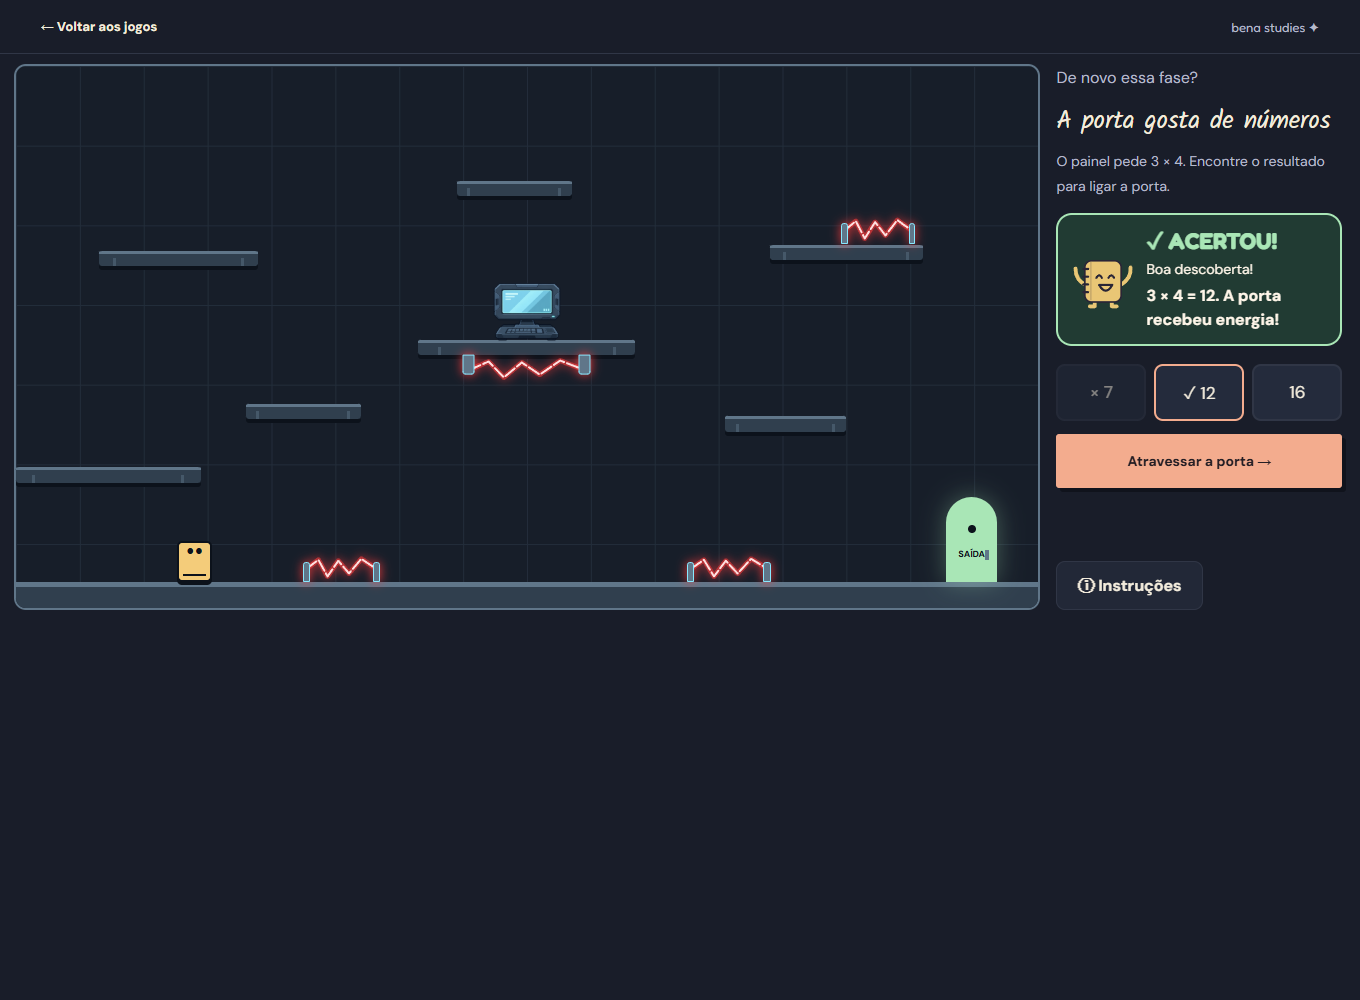
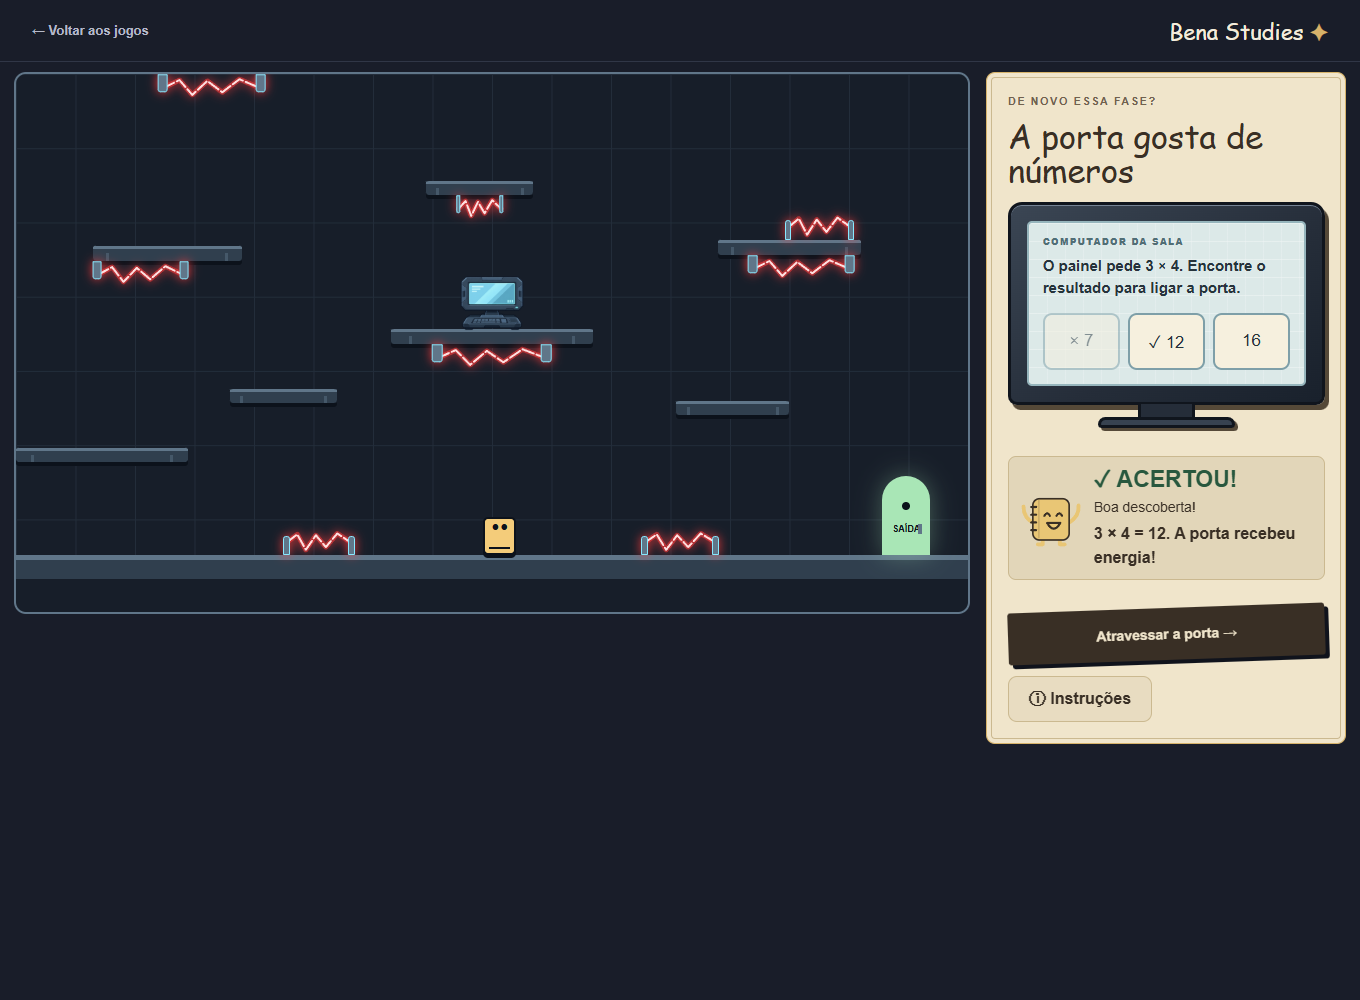
feat: show tabuada challenges on computer monitor

diff --git a/conteudo/3-serie/matematica/tabuada/002/jogo.js b/conteudo/3-serie/matematica/tabuada/002/jogo.js
@@ -53,9 +53,9 @@
       function showRoom() {
         respawnDelay = 0; x = 75; y = 373; vy = 0; grounded = true; target = null; held.clear(); tried = false; solved = false; opened = false; exiting = false;
         const level = levels[phase];
-        container.innerHTML = `<div class="room-layout"><div><div class="room-world" role="group" aria-label="Sala explorável. Use as setas esquerda e direita para andar e a seta para cima para pular. Clique no painel ou chegue à sua frente para abrir seu conteúdo."><div class="room-scene"><div class="room-grid"></div>${roomGeometry()}<button class="room-console" aria-label="Usar o computador"><img class="room-computer" src="../../../../../assets/images/TLA/Desktop.png" alt=""></button><button class="room-door" aria-label="Ir até a porta"><span class="door-lamp"></span><b>SAÍDA</b><i></i></button><div class="room-player" aria-hidden="true"><span class="player-eyes">••</span><span class="player-book"></span></div><div class="room-floor"></div></div></div></div><aside class="room-puzzle game-template-side" aria-label="Desafio da fase"><p class="room-game-title">De novo essa fase?</p><h3 tabindex="-1">${level.title}</h3><p class="room-clue">${level.clue}</p><div class="feedback" role="status" aria-live="polite" aria-atomic="true"></div><div class="room-mechanism"></div><button class="primary room-next" hidden>Atravessar a porta →</button><button class="room-instructions-button" aria-haspopup="dialog">ⓘ Instruções</button></aside></div><dialog class="room-instructions" aria-labelledby="instructions-title"><h2 id="instructions-title">Como jogar</h2><ul><li><strong>Sua missão:</strong> resolva os desafios de tabuada para abrir a porta e atravessar as cinco fases. A sala é a mesma, mas a regra muda!</li><li><strong>Ande e pule:</strong> use ← e → para andar e ↑ para pular.</li><li><strong>Explore com um clique:</strong> clique ou toque no painel e na porta para interagir com eles.</li><li><strong>Cuidado com a eletricidade:</strong> pule os arcos vermelhos. Se encostar, o personagem reaparece no início da sala. Suas respostas continuam guardadas e você não perde pontos.</li><li><strong>O painel abre sozinho:</strong> clique nele ou leve o personagem até a sua frente. O conteúdo aparece automaticamente, sem apertar outra tecla.</li></ul><button class="primary instructions-close">Entendi! Vamos jogar →</button></dialog>`;
+        container.innerHTML = `<div class="room-layout"><div><div class="room-world" role="group" aria-label="Sala explorável. Use as setas esquerda e direita para andar e a seta para cima para pular. Leve o personagem até a frente do computador para abrir o desafio."><div class="room-scene"><div class="room-grid"></div>${roomGeometry()}<button class="room-console" aria-label="Computador: leve o personagem até ele para usar"><img class="room-computer" src="../../../../../assets/images/TLA/Desktop.png" alt=""></button><button class="room-door" aria-label="Ir até a porta"><span class="door-lamp"></span><b>SAÍDA</b><i></i></button><div class="room-player" aria-hidden="true"><span class="player-eyes">••</span><span class="player-book"></span></div><div class="room-floor"></div></div></div></div><aside class="room-puzzle game-template-side" aria-label="Desafio da fase"><p class="room-game-title">De novo essa fase?</p><h3 tabindex="-1">${level.title}</h3><div class="room-monitor" hidden></div><div class="feedback" role="status" aria-live="polite" aria-atomic="true"></div><button class="primary room-next" hidden>Atravessar a porta →</button><button class="room-instructions-button" aria-haspopup="dialog">ⓘ Instruções</button></aside></div><dialog class="room-instructions" aria-labelledby="instructions-title"><h2 id="instructions-title">Como jogar</h2><ul><li><strong>Sua missão:</strong> resolva os desafios de tabuada para abrir a porta e atravessar as cinco fases. A sala é a mesma, mas a regra muda!</li><li><strong>Ande e pule:</strong> use ← e → para andar e ↑ para pular.</li><li><strong>Use o computador:</strong> leve o personagem até a frente dele. O conteúdo aparece automaticamente, sem apertar outra tecla.</li><li><strong>Cuidado com a eletricidade:</strong> pule os arcos vermelhos. Se encostar, o personagem reaparece no início da sala. Suas respostas continuam guardadas e você não perde pontos.</li><li><strong>Explore a saída:</strong> depois de resolver o computador, clique ou toque na porta para atravessá-la.</li></ul><button class="primary instructions-close">Entendi! Vamos jogar →</button></dialog>`;
         container.querySelector('.room-puzzle h3').focus();
-        container.querySelector('.room-console').onclick = () => { openPanel(); target = null; };
+        container.querySelector('.room-console').onclick = () => { if (atComputer()) openPanel(); else status('Chegue à frente do computador para usá-lo.'); };
         container.querySelector('.room-door').onclick = () => { if (solved) beginExit(); else status('A porta ainda está trancada. Resolva o computador primeiro.'); };
         const instructions = container.querySelector('.room-instructions');
         container.querySelector('.room-instructions-button').onclick = () => { held.clear(); target = null; instructions.showModal(); };
@@ -65,12 +65,17 @@
         draw();
       }
       function status(message) { const door = container.querySelector('.room-door'); if(door) door.setAttribute('aria-label', message); }
+      // A frente acessível do computador fica logo abaixo da plataforma central.
+      function atComputer() { return grounded && Math.abs(x - 390) < 50; }
       function jump() { if (!respawnDelay && grounded && container.querySelector('.room-world')) { vy = -527; grounded = false; } }
       function openPanel() {
         if (opened) return;
         opened = true; target = null;
         status('Painel ligado. Leia a regra desta sala e experimente!');
-        const level = levels[phase], panel = container.querySelector('.room-mechanism');
+        const level = levels[phase], monitor = container.querySelector('.room-monitor');
+        monitor.hidden = false;
+        monitor.innerHTML = `<section class="room-monitor-shell" aria-label="Monitor do computador"><div class="room-monitor-bezel"><div class="room-monitor-screen"><p class="room-monitor-label">COMPUTADOR DA SALA</p><p class="room-clue" tabindex="-1">${level.clue}</p><div class="room-mechanism"></div></div></div><div class="room-monitor-stem" aria-hidden="true"></div><div class="room-monitor-base" aria-hidden="true"></div></section>`;
+        const panel = monitor.querySelector('.room-mechanism');
         if (level.type === 'choice') {
           panel.innerHTML = `<div class="room-options">${level.choices.map((v,i)=>`<button data-choice="${i}">${v}</button>`).join('')}</div>`;
           panel.querySelectorAll('[data-choice]').forEach(button=>button.onclick=()=>{
@@ -182,7 +187,7 @@
             respawnDelay=.65;target=null;held.clear();vy=0;
             container.querySelector('.room-player').classList.add('electrocuted');
           }
-          if(!respawnDelay&&Math.abs(x-390)<50&&Math.abs(y+32-215)<8)openPanel();
+          if(!respawnDelay&&atComputer())openPanel();
           if(solved&&x+28>=728&&y+32>=404)advancePhase();
           draw(direction!==0);
         }

diff --git a/conteudo/3-serie/matematica/tabuada/002/estilo.css b/conteudo/3-serie/matematica/tabuada/002/estilo.css
@@ -212,3 +212,104 @@ body.standalone-game{background:var(--paper);min-height:100dvh}
   .room-page .room-puzzle.game-template-side { overflow: visible; }
   .room-puzzle h3 { font-size: 32px; }
 }
+
+/* O desafio mora no monitor e só é criado quando a criança chega ao computador. */
+.room-monitor[hidden] { display: none; }
+
+.room-monitor {
+  margin: 0 0 16px;
+}
+
+.room-monitor-shell {
+  --monitor-case: #252d39;
+  --monitor-edge: #10151d;
+  --monitor-screen: #dce9e8;
+  --monitor-screen-line: #96b5bc;
+  --monitor-ink: #26333b;
+  display: flex;
+  flex-direction: column;
+  align-items: center;
+}
+
+.room-monitor-bezel {
+  width: 100%;
+  padding: clamp(11px, 1.25vw, 16px);
+  border: 3px solid var(--monitor-edge);
+  border-radius: 14px 14px 9px 9px;
+  background: linear-gradient(145deg, #3b4654, var(--monitor-case) 58%, #19212c);
+  box-shadow: inset 0 1px 0 #758394, 4px 5px 0 #554938;
+}
+
+.room-monitor-screen {
+  min-height: 164px;
+  padding: 14px;
+  border: 2px solid var(--monitor-screen-line);
+  border-radius: 5px;
+  background-color: var(--monitor-screen);
+  background-image: linear-gradient(#ffffff4d 1px, transparent 1px), linear-gradient(90deg, #ffffff33 1px, transparent 1px);
+  background-size: 18px 18px;
+  color: var(--monitor-ink);
+}
+
+.room-monitor-label {
+  margin: 0 0 8px !important;
+  color: #516e76 !important;
+  font-family: var(--body);
+  font-size: 9px !important;
+  font-weight: 800;
+  letter-spacing: 1.3px;
+  line-height: 1.2 !important;
+}
+
+.room-monitor-screen .room-clue {
+  margin: 0 !important;
+  color: var(--monitor-ink) !important;
+  font-size: 15px !important;
+  font-weight: 700;
+  line-height: 1.45 !important;
+}
+
+.room-monitor-screen .room-clue:focus,
+.room-monitor-screen .room-clue:focus-visible { outline: none; }
+
+.room-monitor-stem {
+  width: 18%;
+  height: 13px;
+  margin-top: -1px;
+  border-inline: 3px solid var(--monitor-edge);
+  background: var(--monitor-case);
+}
+
+.room-monitor-base {
+  width: 43%;
+  height: 11px;
+  border: 3px solid var(--monitor-edge);
+  border-radius: 8px 8px 4px 4px;
+  background: #374250;
+  box-shadow: 3px 3px 0 #554938;
+}
+
+.room-monitor-screen .room-options,
+.room-monitor-screen .room-adjust { margin-top: 14px; }
+
+.room-monitor-screen .room-options button,
+.room-monitor-screen .room-adjust button,
+.room-monitor-screen .room-check {
+  border-color: #7e9fa8;
+  background: #f6f0de;
+  color: var(--monitor-ink);
+}
+
+.room-monitor-screen .room-options button[aria-pressed="true"] {
+  background: var(--monitor-ink);
+  color: #f6f0de;
+}
+
+.room-monitor-screen .room-check { margin-top: 12px; }
+.room-monitor-screen .pair-state { color: var(--monitor-ink) !important; }
+.room-monitor-screen .room-crystals { color: #9c6d18; }
+
+@media(max-width:850px) {
+  .room-monitor-bezel { max-width: 520px; }
+  .room-monitor-screen { min-height: 0; }
+}

diff --git a/README.md b/README.md
@@ -56,16 +56,16 @@ O mascote de acerto/erro é compartilhado por todos os jogos. Consulte [o padrã
 Leia [as regras de pontuação](docs/pontuacao.md). O cálculo é compartilhado por todos os jogos; sua configuração está em `config/pontuacao.js`. A versão atual serve para testar a fórmula, sem ranking oficial ou histórico de alunos.
 
 ## Jogo 002 — De novo essa fase?
-Protótipo de plataforma e puzzles em `conteudo/3-serie/matematica/tabuada/002/`. Cinco fases na mesma sala, com resultado, fator ausente, grupos de cristais, pares de fatores e conta intrusa. As setas ← → movem e ↑ pula. O computador abre ao clicar/tocar nele ou chegar à sua frente, sem tecla E. O botão Instruções explica o objetivo e os controles. Os controles visuais abaixo do cenário foram removidos. Resolver libera a porta: a criança pode alcançá-la andando ou clicar em “Atravessar a porta”, que faz o personagem seguir uma rota física segura com saltos antes dos arcos do piso. Ao alterar a sala, preserve e teste essa rota; ela não pode encostar nos perigos.
+Protótipo de plataforma e puzzles em `conteudo/3-serie/matematica/tabuada/002/`. Cinco fases na mesma sala, com resultado, fator ausente, grupos de cristais, pares de fatores e conta intrusa. As setas ← → movem e ↑ pula. O computador abre somente quando o personagem chega à sua frente, sem tecla E. O botão Instruções explica o objetivo e os controles. Os controles visuais abaixo do cenário foram removidos. Resolver libera a porta: a criança pode alcançá-la andando ou clicar em “Atravessar a porta”, que faz o personagem seguir uma rota física segura com saltos antes dos arcos do piso. Ao alterar a sala, preserve e teste essa rota; ela não pode encostar nos perigos.
 
 Cada fase é uma questão para pontuação: total 5, cada confirmação errada válida conta um erro, erros de movimentação não contam. Usa a fórmula compartilhada, sem tempo e sem multiplicador de dificuldade. Contagem de rodadas usa chave própria `3-serie/matematica/tabuada/002`. As cinco regras e contas são fixas nesta prévia. Não é ainda um padrão aprovado para outros temas.
 
 Jogos com controles ou animação podem retornar uma função de limpeza de `iniciar(container, voltar)`. O carregador chama essa função ao sair, fechar ou trocar o jogo; o jogo 002 libera eventos e sua animação desse modo.
 
-O jogo 002 agora abre em página própria: `conteudo/3-serie/matematica/tabuada/002/index.html`. O catálogo usa `pagina` para essa navegação; o jogo 001 continua no modal. “Voltar aos jogos” retorna à lista de Tabuada. A página própria ocupa a área do navegador e não usa a API de tela cheia. O contador de pontuação continua sendo uma demonstração em memória: sair da página do jogo e abrir novamente reinicia essa memória; o botão de repetir dentro do jogo mantém a redução por repetição.
+O jogo 002 agora abre em página própria: `conteudo/3-serie/matematica/tabuada/002/index.html`. O catálogo usa `pagina` para essa navegação; o jogo 001 continua no modal. “Voltar aos jogos” retorna à lista de Tabuada. A página própria ocupa a área do navegador e não usa a API de tela cheia. O contador de pontuação continua sendo uma demonstração em memória: sair da página do jogo e abrir novamente reinicia essa memória; o botão de repetir dentro do jogo mantém a redução por repetição. A pergunta e o mecanismo aparecem no monitor lateral somente quando o personagem alcança a frente do computador.
 
 ### Plataformas e eletricidade (jogo 002)
-A sala usa oito plataformas e quatro arcos elétricos, com geometria definida em `platforms` e `hazards` no `jogo.js`. As mesmas coordenadas lógicas (800 × 425) alimentam o desenho e as colisões. As plataformas são sólidas no topo, embaixo e nas laterais; a criança pode pular por cima delas, mas não atravessá-las. O computador fica sobre a plataforma central; clicar nele também abre o desafio diretamente.
+A sala usa oito plataformas e quatro arcos elétricos, com geometria definida em `platforms` e `hazards` no `jogo.js`. As mesmas coordenadas lógicas (800 × 425) alimentam o desenho e as colisões. As plataformas são sólidas no topo, embaixo e nas laterais; a criança pode pular por cima delas, mas não atravessá-las. O computador fica sobre a plataforma central; alcançar sua frente abre o desafio diretamente.
 
 Encostar em um arco dispara um choque curto e reaparecimento no ponto inicial da fase. Não altera respostas, acertos, erros de tabuada, pontos ou número da rodada. Não há limite de vidas. O efeito não usa flashes e respeita redução de movimento. Após resolver a questão, entrar na porta avança a fase; o botão “Atravessar a porta” faz o personagem caminhar pela rota segura até ela. Teste específico: `verificacao/eletricidade.cjs`.
 
